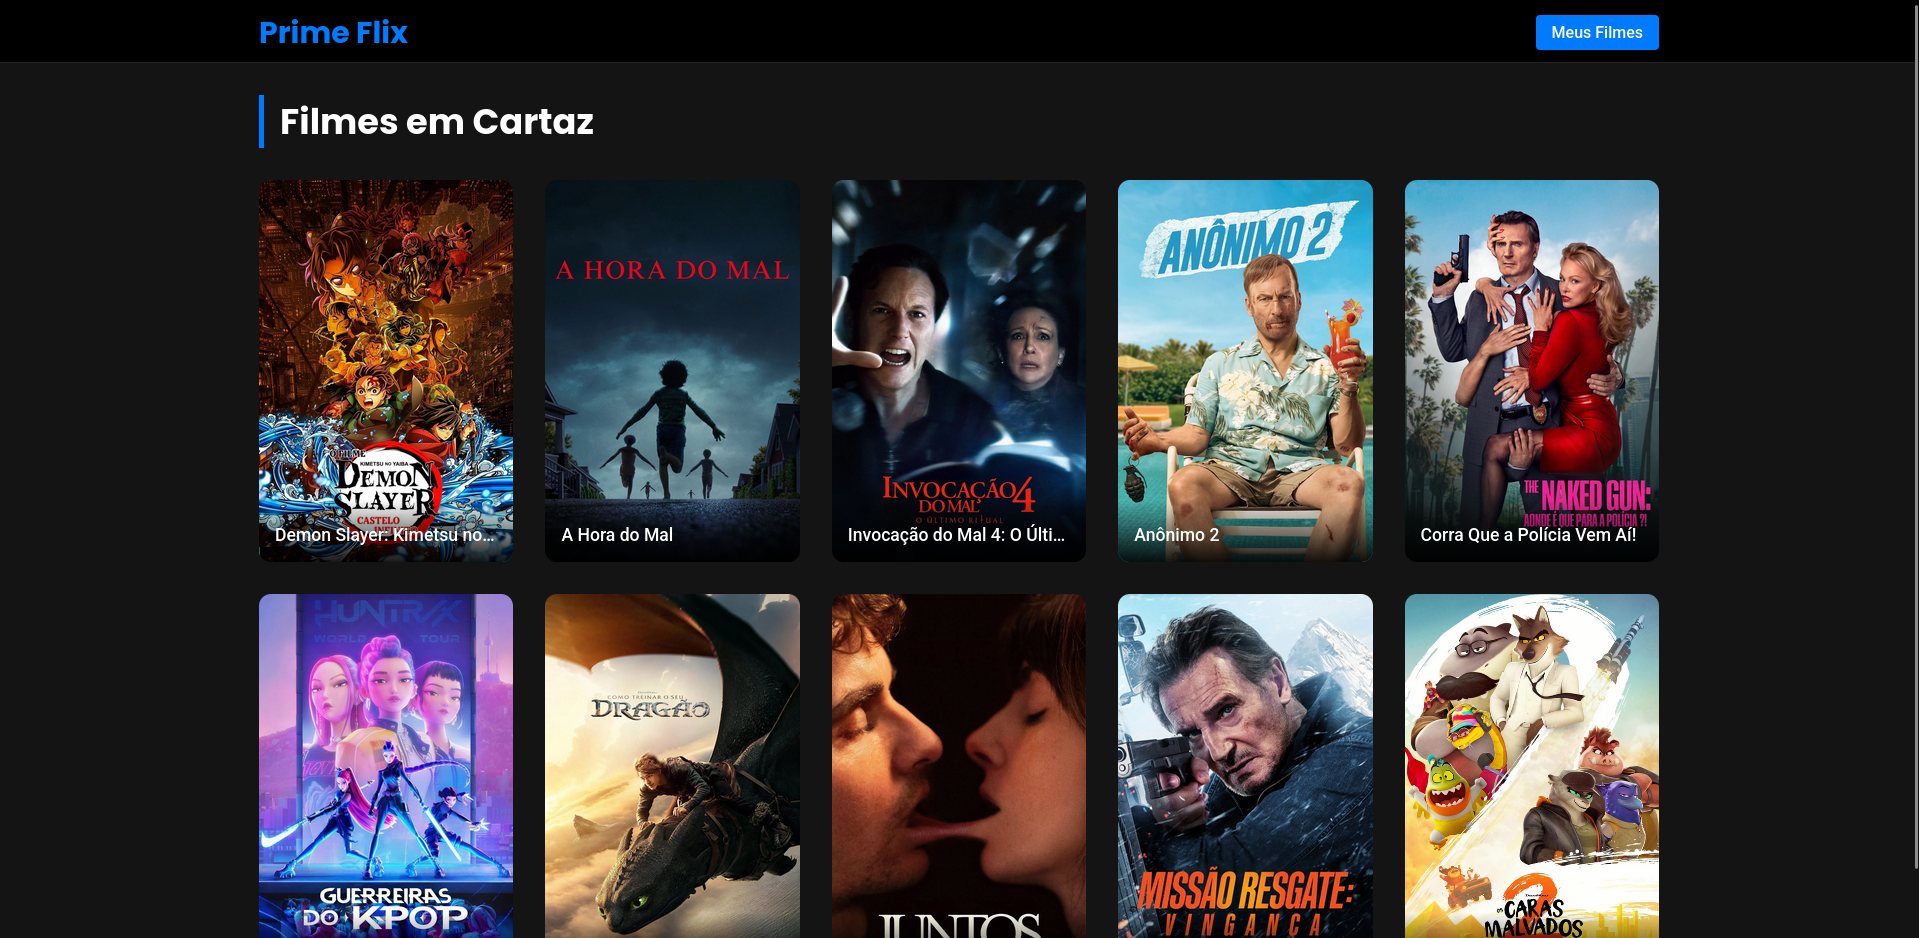
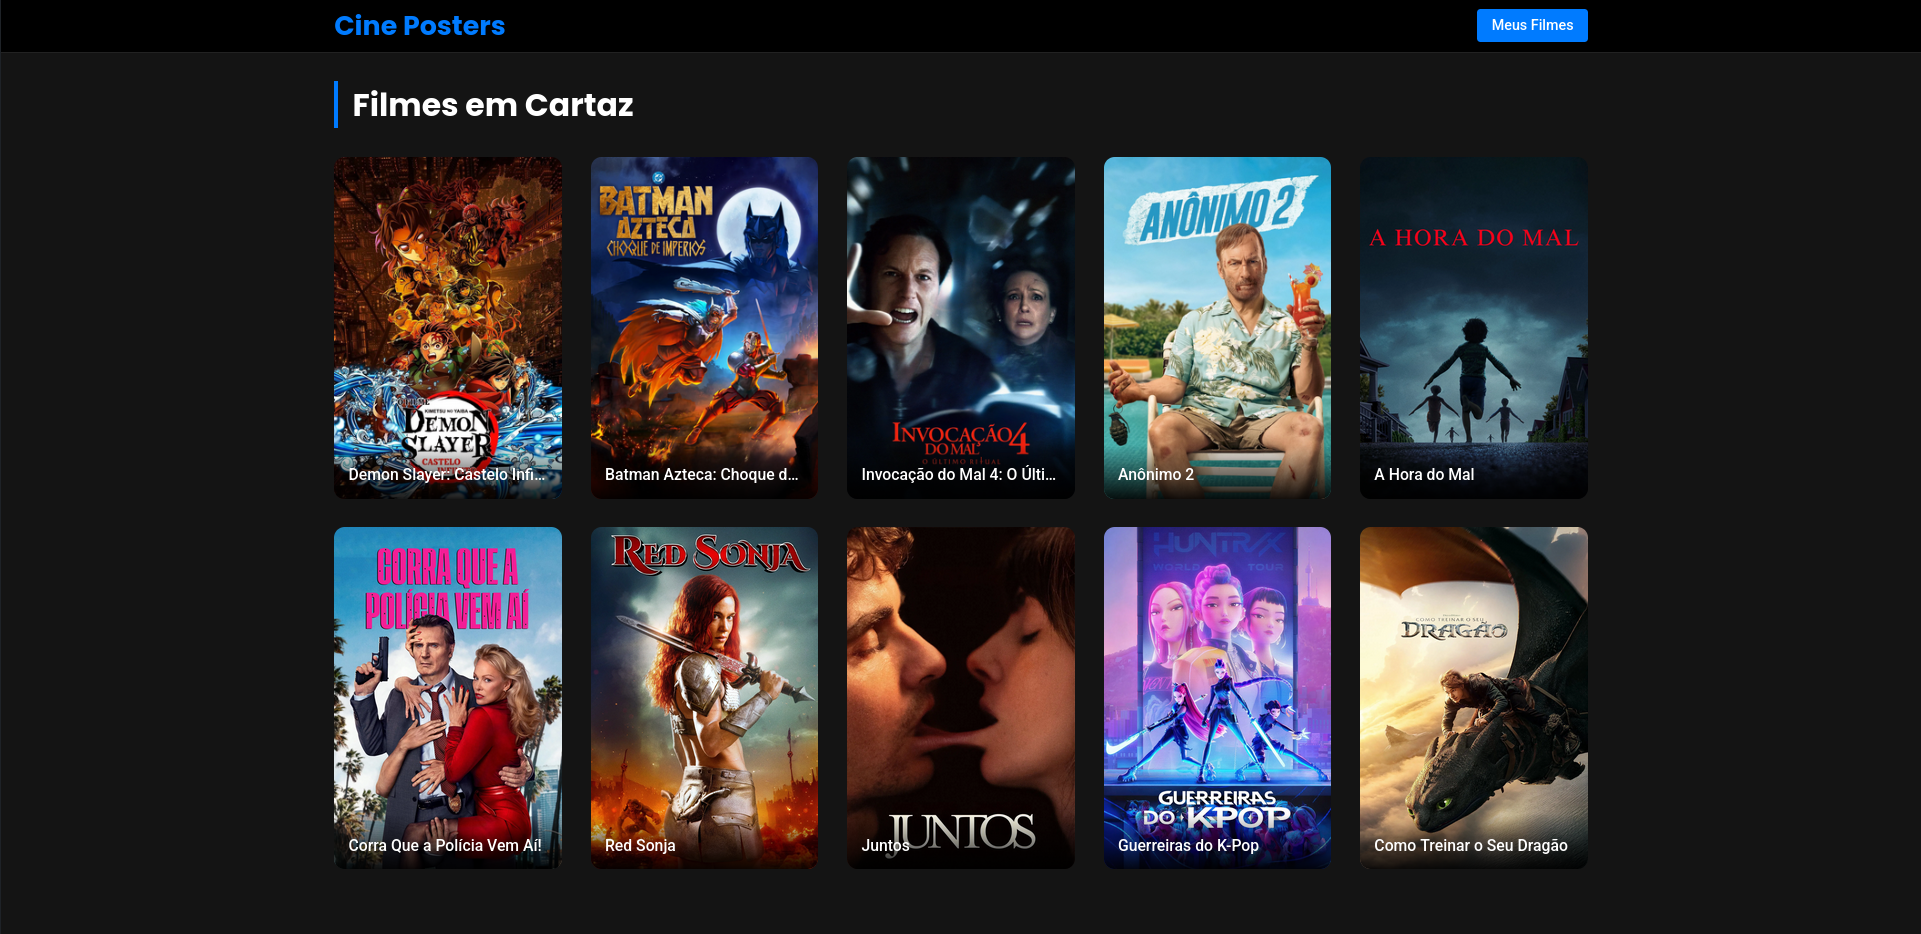
docs: atualizar nome do projeto no README e no componente Header; adicionar estilos de carregamento

diff --git a/src/components/Header/index.js b/src/components/Header/index.js
@@ -6,7 +6,7 @@ function Header() {
     <header>
       <div className="header-content">
         <Link className="logo" to={'/'}>
-          Prime Flix
+          Cine Posters
         </Link>
         <Link className="favoritos" to={'/favoritos'}>
           Meus Filmes

diff --git a/src/pages/Filme/filme-info.css b/src/pages/Filme/filme-info.css
@@ -122,3 +122,12 @@
     justify-content: center;
   }
 }
+
+.loading-container {
+  display: flex;
+  flex-direction: column;
+  justify-content: center;
+  align-items: center;
+  width: 100%;
+  height: calc(100vh - 120px);
+}

diff --git a/src/pages/Filme/index.js b/src/pages/Filme/index.js
@@ -57,7 +57,7 @@ function Filme() {
 
   if (loading) {
     return (
-      <div className="filme-info">
+      <div className="loading-container">
         <OrbitProgress
           variant="disc"
           color="#2749bb"

diff --git a/README.md b/README.md
@@ -1,4 +1,4 @@
-# 🎬 PrimeFlix - Catálogo de Filmes
+# 🎬 CinePosters - Catálogo de Filmes em Cartaz no Cinema
 
 Um site moderno e responsivo construído com React para explorar uma lista de filmes que estão em cartaz no momento. Cada filme é apresentado em um card interativo, com a opção de ver detalhes, salvar nos favoritos e assistir ao trailer.
 
